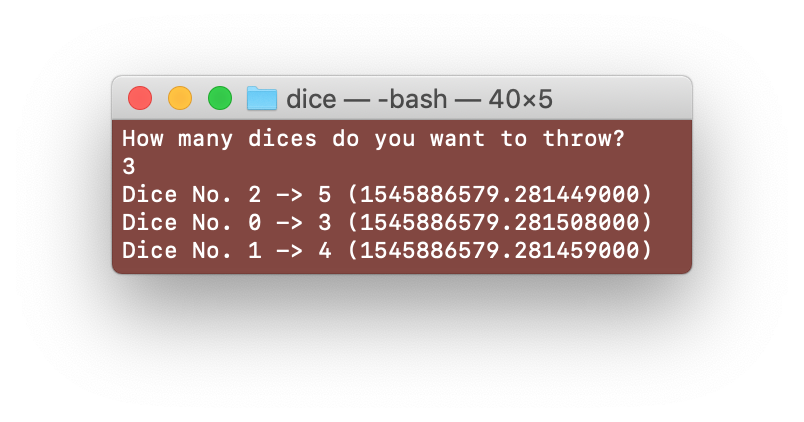
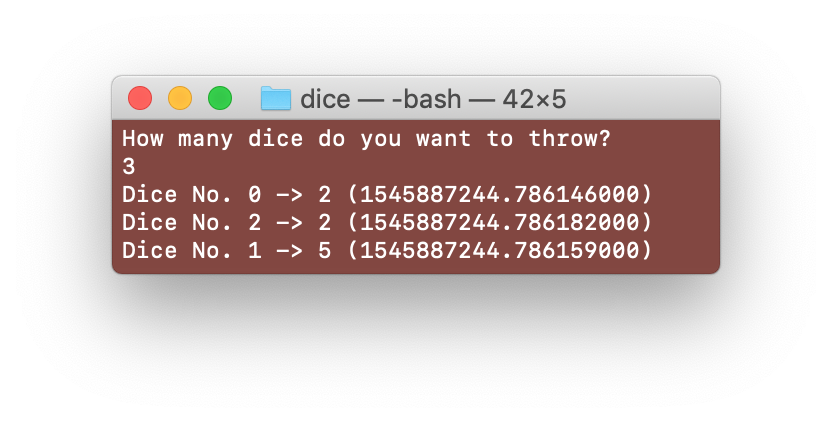
Fix spelling error

diff --git a/src/main.rs b/src/main.rs
@@ -7,7 +7,7 @@ use std::sync::{Arc, Barrier};
 use std::thread;
 
 fn main() {
-    println!("How many dices do you want to throw?");
+    println!("How many dice do you want to throw?");
 
     let mut dice_count = String::new();
 
